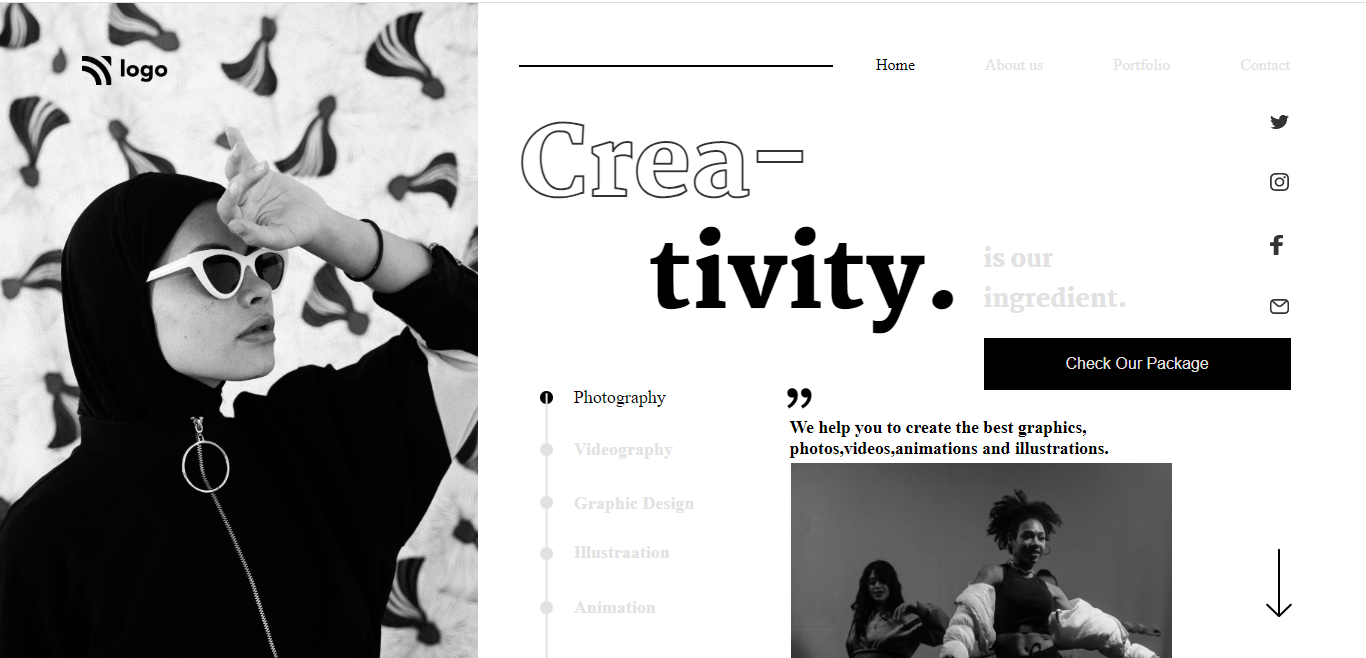
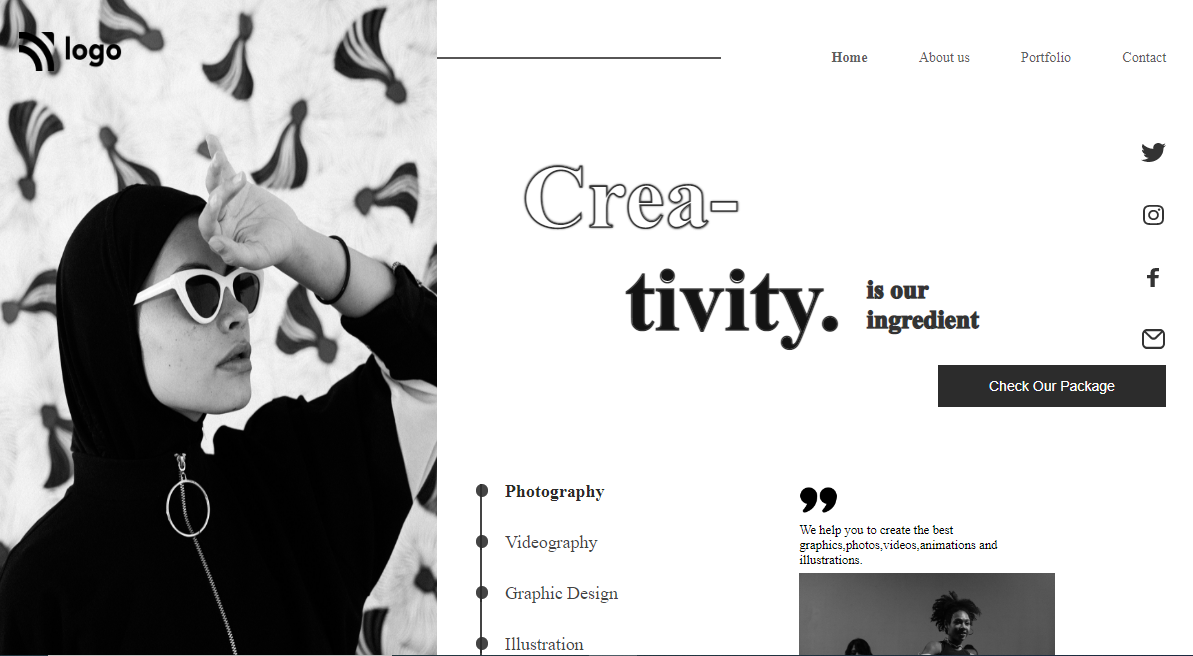
Images Modified

diff --git a/Readme.md b/Readme.md
@@ -42,7 +42,7 @@
 
 # Reminder 😮
 
->## I spent roughly around 3  hours finishing this project. The most of my time was focused on CSS Portion.
+>## I spent roughly around 3  hours finishing this project. The most of my time was focused on CSS Portion. And this is a `Responsive Design`.
 
 
 
